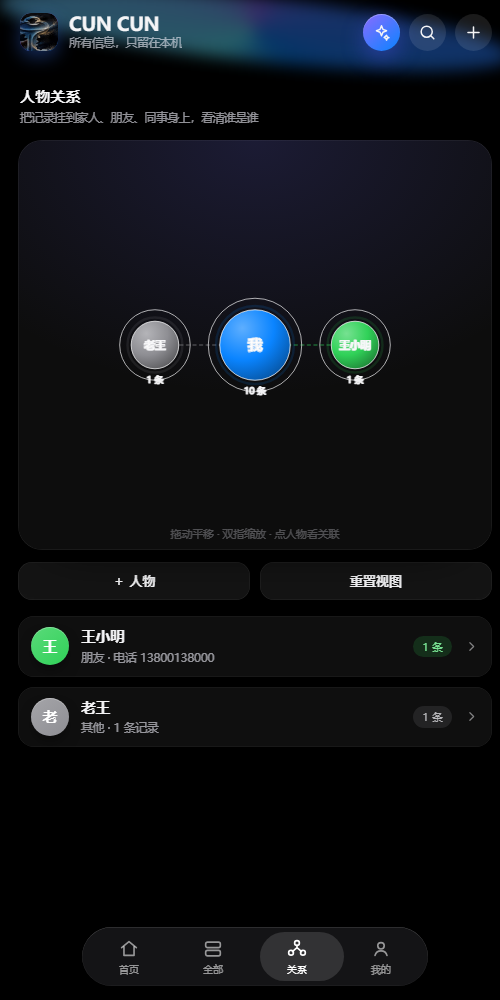
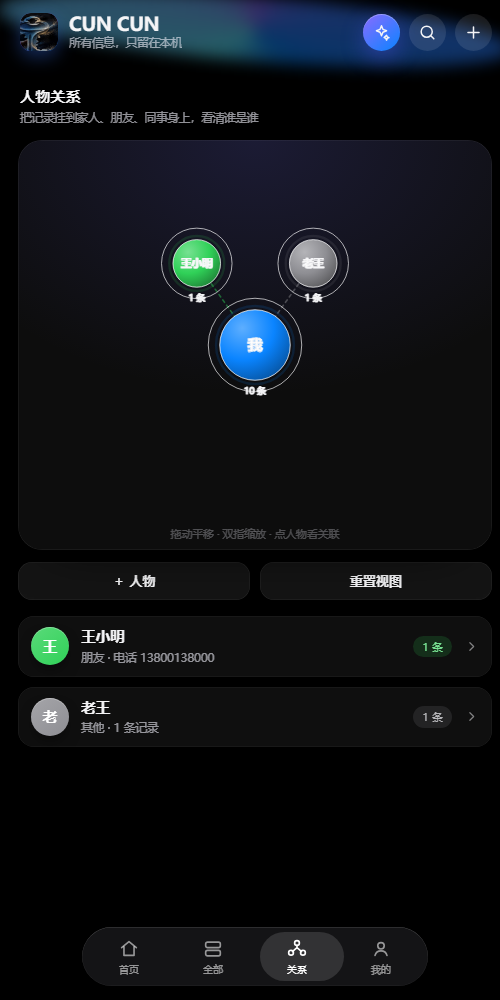
关系图两人时改为三角分布，重建 1.5.1 APK 与截图

diff --git a/assets/www/app.js b/assets/www/app.js
@@ -1652,7 +1652,10 @@
 
     var coords = [];
     persons.forEach(function (p, i) {
-      var a = -Math.PI / 2 + (i + off) * step;
+      var a;
+      // 只有两个人时排成左右上斜角（三角形），否则会和我连成一条横线
+      if (n === 2) a = -Math.PI / 2 + (i === 0 ? -0.62 : 0.62);
+      else a = -Math.PI / 2 + (i + off) * step;
       coords.push({ x: Math.round(cx + Math.cos(a) * R), y: Math.round(cy + Math.sin(a) * R) });
     });
     coords.forEach(function (c, i) {
